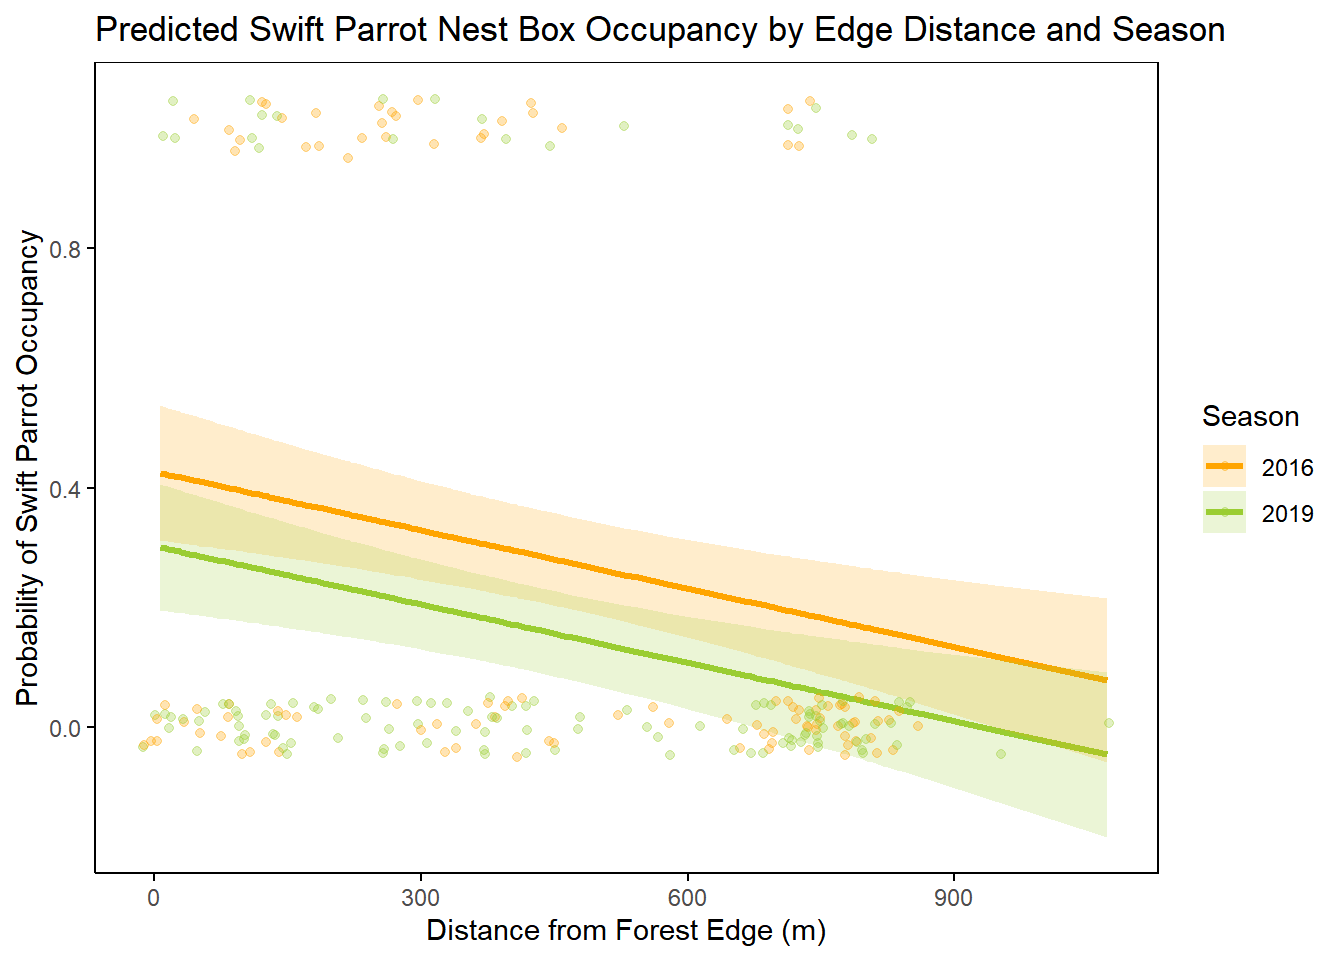
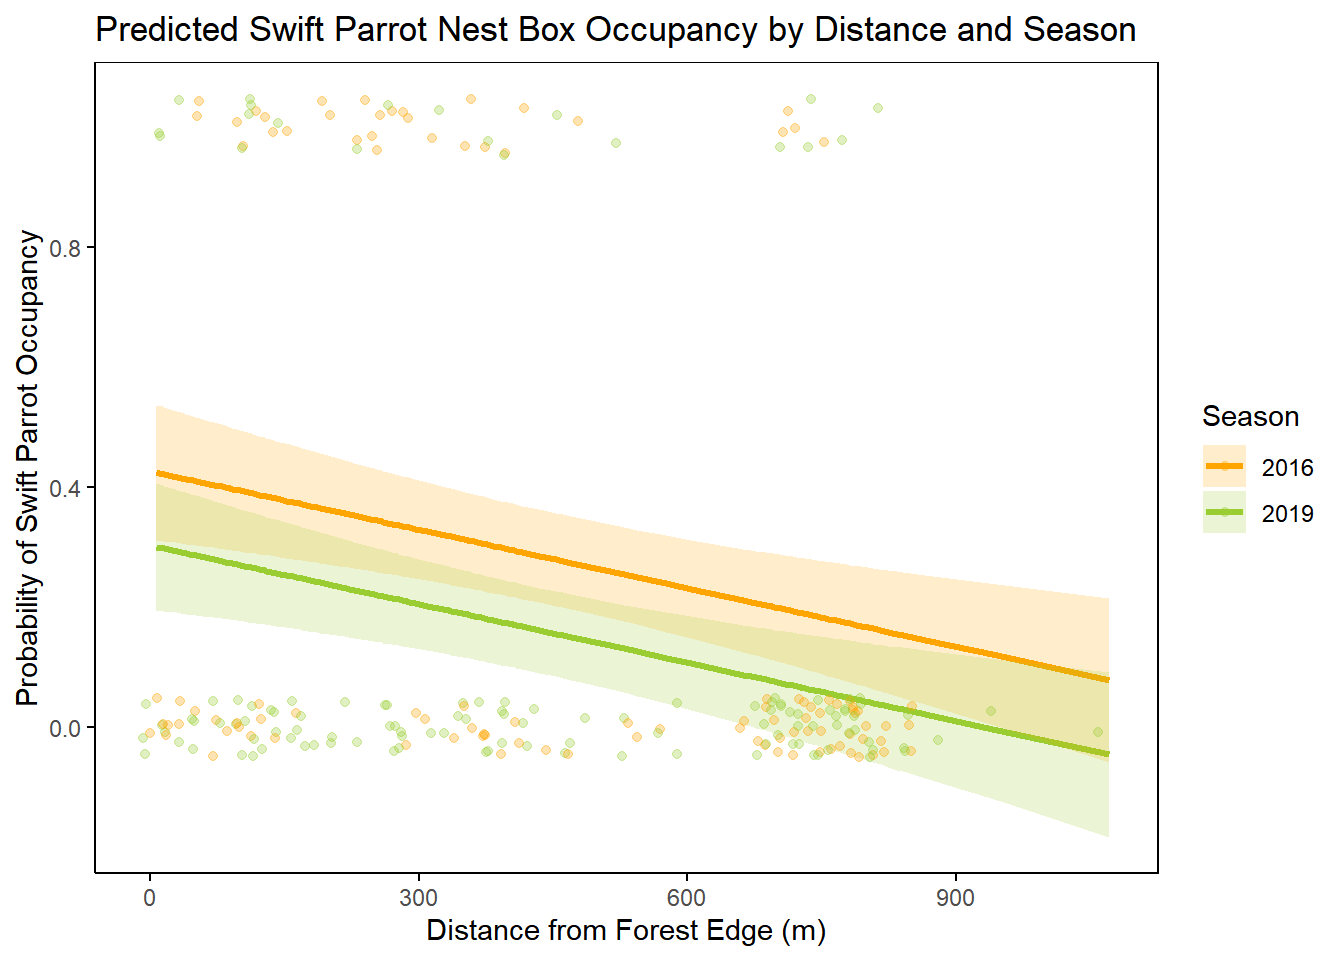
calculate model predictions

diff --git a/code/ENVS-193DS-FInal.html b/code/ENVS-193DS-FInal.html
@@ -160,15 +160,14 @@ pre > code.sourceCode > span > a:first-child::before { text-decoration: underlin
 <span id="cb1-2"><a href="#cb1-2" aria-hidden="true" tabindex="-1"></a><span class="co">#loading in libraries</span></span>
 <span id="cb1-3"><a href="#cb1-3" aria-hidden="true" tabindex="-1"></a><span class="fu">library</span>(tidyverse) <span class="co">#general use</span></span>
 <span id="cb1-4"><a href="#cb1-4" aria-hidden="true" tabindex="-1"></a><span class="fu">library</span>(here) <span class="co">#organization</span></span>
-<span id="cb1-5"><a href="#cb1-5" aria-hidden="true" tabindex="-1"></a><span class="fu">library</span>(gt)</span>
-<span id="cb1-6"><a href="#cb1-6" aria-hidden="true" tabindex="-1"></a><span class="fu">library</span> (ggeffects)</span>
-<span id="cb1-7"><a href="#cb1-7" aria-hidden="true" tabindex="-1"></a><span class="fu">library</span>(janitor) <span class="co">#cleaning data frames</span></span>
-<span id="cb1-8"><a href="#cb1-8" aria-hidden="true" tabindex="-1"></a><span class="fu">library</span>(readxl) <span class="co">#reading excel sheets</span></span>
-<span id="cb1-9"><a href="#cb1-9" aria-hidden="true" tabindex="-1"></a><span class="fu">library</span>(dplyr) <span class="co">#</span></span>
-<span id="cb1-10"><a href="#cb1-10" aria-hidden="true" tabindex="-1"></a><span class="fu">library</span>(ggplot2) <span class="co">#creating figures</span></span>
-<span id="cb1-11"><a href="#cb1-11" aria-hidden="true" tabindex="-1"></a><span class="fu">library</span>(magick) </span>
-<span id="cb1-12"><a href="#cb1-12" aria-hidden="true" tabindex="-1"></a><span class="fu">library</span>(DHARMa)</span>
-<span id="cb1-13"><a href="#cb1-13" aria-hidden="true" tabindex="-1"></a><span class="fu">library</span>(MuMIn) <span class="co">#model selection</span></span></code><button title="Copy to Clipboard" class="code-copy-button"><i class="bi"></i></button></pre></div>
+<span id="cb1-5"><a href="#cb1-5" aria-hidden="true" tabindex="-1"></a><span class="fu">library</span>(ggeffects) <span class="co">#model predictions</span></span>
+<span id="cb1-6"><a href="#cb1-6" aria-hidden="true" tabindex="-1"></a><span class="fu">library</span>(janitor) <span class="co">#cleaning data frames</span></span>
+<span id="cb1-7"><a href="#cb1-7" aria-hidden="true" tabindex="-1"></a><span class="fu">library</span>(readxl) <span class="co">#reading excel sheets</span></span>
+<span id="cb1-8"><a href="#cb1-8" aria-hidden="true" tabindex="-1"></a><span class="fu">library</span>(dplyr) <span class="co">#data manipulation</span></span>
+<span id="cb1-9"><a href="#cb1-9" aria-hidden="true" tabindex="-1"></a><span class="fu">library</span>(ggplot2) <span class="co">#creating figures</span></span>
+<span id="cb1-10"><a href="#cb1-10" aria-hidden="true" tabindex="-1"></a><span class="fu">library</span>(magick) <span class="co">#image processing</span></span>
+<span id="cb1-11"><a href="#cb1-11" aria-hidden="true" tabindex="-1"></a><span class="fu">library</span>(DHARMa) <span class="co">#regression modeling</span></span>
+<span id="cb1-12"><a href="#cb1-12" aria-hidden="true" tabindex="-1"></a><span class="fu">library</span>(MuMIn) <span class="co">#model selection</span></span></code><button title="Copy to Clipboard" class="code-copy-button"><i class="bi"></i></button></pre></div>
 </div>
 <div class="cell">
 <div class="sourceCode cell-code" id="cb2"><pre class="sourceCode r code-with-copy"><code class="sourceCode r"><span id="cb2-1"><a href="#cb2-1" aria-hidden="true" tabindex="-1"></a><span class="co">#read in SB LTER data for this assignment (problem 2)</span></span>
@@ -187,11 +186,11 @@ pre > code.sourceCode > span > a:first-child::before { text-decoration: underlin
 </section>
 <section id="b.-more-information-needed" class="level3">
 <h3 class="anchored" data-anchor-id="b.-more-information-needed">b. More information needed</h3>
-<p>What should also be included are (1) Effect size/dist for both analyses. For example, in part 1, was correlation positive? negative? how strong was it? A p-value by itself did not indicate the strength or nature of the relationship. (2) Post-hoc comparison for part 2 is needed. Since there are multiple nitrogen sources, a significant ANOVA should be followed by pairwise comparisons <em>tukey hsd</em> to determine difference in sources. This would give better context for interpretation of which alnd uses are contributing the most to nitrogen.</p>
+<p>What should also be included are (1) Effect size/dist for both analyses. For example, in part 1, was correlation positive? negative? how strong was it? A p-value by itself did not indicate the strength or nature of the relationship. (2) Post-hoc comparison for part 2 is needed. Since there are multiple nitrogen sources, a significant ANOVA should be followed by pairwise comparisons (Tukey’s HSD) to determine difference in sources. This would give better context for interpretation of which alnd uses are contributing the most to nitrogen.</p>
 </section>
 <section id="c.-suggestions-for-rewriting" class="level3">
 <h3 class="anchored" data-anchor-id="c.-suggestions-for-rewriting">c.&nbsp;Suggestions for rewriting</h3>
-<p><em>add more here later</em> Sites father from the river headwaters were associated with higher total annual nitrogen loads. We rejected the null hypotheses that there is no correlation between distance from headwater (km) and annual total nitrogen load (kg year-1). Using Pearson’s correlation, r = correlation coefficient, p = 0.03, a = 0.05</p>
+<p>Sites father from the river headwaters were associated with higher total annual nitrogen loads. We rejected the null hypotheses that there is no correlation between distance from headwater (km) and annual total nitrogen load (kg year-1). Using Pearson’s correlation, r = correlation coefficient, p = 0.03, a = 0.05</p>
 <p>Nitrogen load varied significantly across different source types, indicating there is a key driver of elevated nitrogen levels to the system. We reject the null hypotheses that there is no difference in average nitrogen load between sources (urban land, atmospheric deposition, fertilizer, wastewater treatment, and grasslands) Using one way ANOVA, f=test statistic, df = degrees of freedom, p = 0.02, a = 0.05).A follow p post-hoc Tukey’s HSD test determined that ___ source (mean difference = average kg/year, p = p value) had significantly higher nitrogen loads than ___source (mean difference = average kg/year, p = p-value) no significant differences were found between other sources.</p>
 </section>
 </section>
@@ -215,17 +214,17 @@ pre > code.sourceCode > span > a:first-child::before { text-decoration: underlin
 <span id="cb3-12"><a href="#cb3-12" aria-hidden="true" tabindex="-1"></a><span class="co">#drop duplicates</span></span>
 <span id="cb3-13"><a href="#cb3-13" aria-hidden="true" tabindex="-1"></a></span>
 <span id="cb3-14"><a href="#cb3-14" aria-hidden="true" tabindex="-1"></a>sst_clean<span class="sc">$</span>year <span class="ot">&lt;-</span> <span class="fu">factor</span>(sst_clean<span class="sc">$</span>year, <span class="at">levels =</span> <span class="fu">c</span>(<span class="st">"2018"</span>, <span class="st">"2019"</span>, <span class="st">"2020"</span>, <span class="st">"2021"</span>, <span class="st">"2022"</span>, <span class="st">"2023"</span>))</span>
-<span id="cb3-15"><a href="#cb3-15" aria-hidden="true" tabindex="-1"></a><span class="co">#display 5 rows from sst_clean</span></span>
+<span id="cb3-15"><a href="#cb3-15" aria-hidden="true" tabindex="-1"></a><span class="co">#display 5 rows from sst_clean, in levels ("2018", "2019", "2020", "2021", "2022", and "2023"</span></span>
 <span id="cb3-16"><a href="#cb3-16" aria-hidden="true" tabindex="-1"></a><span class="fu">slice_sample</span>(sst_clean, <span class="at">n =</span> <span class="dv">5</span>)</span></code><button title="Copy to Clipboard" class="code-copy-button"><i class="bi"></i></button></pre></div>
 <div class="cell-output cell-output-stdout">
 <pre><code># A tibble: 5 × 3
   year  month mean_monthly_sst
   &lt;fct&gt; &lt;ord&gt;            &lt;dbl&gt;
-1 2023  May               14.3
-2 2023  Oct               17.4
-3 2020  Jul               17  
-4 2021  May               14.4
-5 2023  Nov               16.8</code></pre>
+1 2019  Nov               16.8
+2 2019  Aug               17  
+3 2022  Feb               14.1
+4 2020  May               14.6
+5 2018  Nov               17.9</code></pre>
 </div>
 <div class="sourceCode cell-code" id="cb5"><pre class="sourceCode r code-with-copy"><code class="sourceCode r"><span id="cb5-1"><a href="#cb5-1" aria-hidden="true" tabindex="-1"></a><span class="co">#structure from sst_clean</span></span>
 <span id="cb5-2"><a href="#cb5-2" aria-hidden="true" tabindex="-1"></a><span class="fu">str</span>(sst_clean)</span></code><button title="Copy to Clipboard" class="code-copy-button"><i class="bi"></i></button></pre></div>
@@ -242,28 +241,31 @@ pre > code.sourceCode > span > a:first-child::before { text-decoration: underlin
 <p><em>how to add20 tick to yaxis</em></p>
 <div class="cell">
 <div class="sourceCode cell-code" id="cb7"><pre class="sourceCode r code-with-copy"><code class="sourceCode r"><span id="cb7-1"><a href="#cb7-1" aria-hidden="true" tabindex="-1"></a><span class="fu">ggplot</span>(<span class="at">data =</span> sst_clean, <span class="co">#making visualization using cleaned sst data </span></span>
-<span id="cb7-2"><a href="#cb7-2" aria-hidden="true" tabindex="-1"></a>        <span class="fu">aes</span>(<span class="at">x =</span> month, <span class="at">y =</span> mean_monthly_sst, <span class="at">color =</span> year, <span class="at">group =</span> year)) <span class="sc">+</span></span>
-<span id="cb7-3"><a href="#cb7-3" aria-hidden="true" tabindex="-1"></a>  <span class="fu">scale_color_manual</span>(</span>
-<span id="cb7-4"><a href="#cb7-4" aria-hidden="true" tabindex="-1"></a>    <span class="at">values =</span> <span class="fu">colorRampPalette</span>(<span class="fu">c</span>(<span class="st">"lightblue"</span>,<span class="st">"darkblue"</span>))(<span class="dv">6</span>)</span>
-<span id="cb7-5"><a href="#cb7-5" aria-hidden="true" tabindex="-1"></a>  ) <span class="sc">+</span></span>
-<span id="cb7-6"><a href="#cb7-6" aria-hidden="true" tabindex="-1"></a>  <span class="fu">geom_line</span>(</span>
-<span id="cb7-7"><a href="#cb7-7" aria-hidden="true" tabindex="-1"></a>    <span class="fu">aes</span>(<span class="at">group =</span> year)) <span class="sc">+</span></span>
-<span id="cb7-8"><a href="#cb7-8" aria-hidden="true" tabindex="-1"></a>  <span class="fu">geom_point</span>(</span>
-<span id="cb7-9"><a href="#cb7-9" aria-hidden="true" tabindex="-1"></a>    <span class="fu">aes</span>(), </span>
-<span id="cb7-10"><a href="#cb7-10" aria-hidden="true" tabindex="-1"></a>  <span class="co">#each individual point is sorted by year </span></span>
-<span id="cb7-11"><a href="#cb7-11" aria-hidden="true" tabindex="-1"></a>     <span class="at">size =</span> <span class="dv">2</span>) <span class="sc">+</span></span>
-<span id="cb7-12"><a href="#cb7-12" aria-hidden="true" tabindex="-1"></a>  <span class="co">#labeling the title and axis of the plot</span></span>
-<span id="cb7-13"><a href="#cb7-13" aria-hidden="true" tabindex="-1"></a><span class="fu">labs</span>(<span class="at">title =</span> <span class="st">"Mean monthly surface temperature (C°) by year, 2018 to 2023"</span>,</span>
-<span id="cb7-14"><a href="#cb7-14" aria-hidden="true" tabindex="-1"></a>       <span class="at">x =</span> <span class="st">"Month"</span>,</span>
-<span id="cb7-15"><a href="#cb7-15" aria-hidden="true" tabindex="-1"></a>       <span class="at">y =</span> <span class="st">"Mean monthly sea surface temperature(C°)"</span>) <span class="sc">+</span></span>
-<span id="cb7-16"><a href="#cb7-16" aria-hidden="true" tabindex="-1"></a>  <span class="fu">theme_minimal</span>() <span class="sc">+</span></span>
-<span id="cb7-17"><a href="#cb7-17" aria-hidden="true" tabindex="-1"></a>  <span class="fu">theme</span>(</span>
-<span id="cb7-18"><a href="#cb7-18" aria-hidden="true" tabindex="-1"></a>    <span class="at">panel.grid =</span> <span class="fu">element_blank</span>(),</span>
-<span id="cb7-19"><a href="#cb7-19" aria-hidden="true" tabindex="-1"></a>    <span class="at">panel.border =</span> <span class="fu">element_rect</span>(<span class="at">color =</span> <span class="st">"black"</span>, <span class="at">fill =</span> <span class="cn">NA</span>), <span class="co">#adding a panel border</span></span>
-<span id="cb7-20"><a href="#cb7-20" aria-hidden="true" tabindex="-1"></a>    <span class="at">axis.line =</span> <span class="fu">element_line</span>(<span class="at">color =</span> <span class="st">"black"</span>),</span>
-<span id="cb7-21"><a href="#cb7-21" aria-hidden="true" tabindex="-1"></a>    <span class="at">axis.ticks =</span> <span class="fu">element_line</span>(<span class="at">color =</span> <span class="st">"black"</span>), <span class="co">#adding axis ticks</span></span>
-<span id="cb7-22"><a href="#cb7-22" aria-hidden="true" tabindex="-1"></a>    <span class="at">legend.position =</span> <span class="fu">c</span>(<span class="fl">0.2</span>, <span class="fl">0.7</span>),</span>
-<span id="cb7-23"><a href="#cb7-23" aria-hidden="true" tabindex="-1"></a>  )  <span class="co">#remove background gridlines and legend box</span></span></code><button title="Copy to Clipboard" class="code-copy-button"><i class="bi"></i></button></pre></div>
+<span id="cb7-2"><a href="#cb7-2" aria-hidden="true" tabindex="-1"></a>        <span class="fu">aes</span>(<span class="at">x =</span> month, <span class="at">y =</span> mean_monthly_sst, <span class="at">color =</span> year, <span class="at">group =</span> year)) <span class="sc">+</span> </span>
+<span id="cb7-3"><a href="#cb7-3" aria-hidden="true" tabindex="-1"></a>  <span class="co">#setting the axis, comparing month (x axis) and mean monthly sea surface temperature (y axis)</span></span>
+<span id="cb7-4"><a href="#cb7-4" aria-hidden="true" tabindex="-1"></a>  <span class="fu">scale_color_manual</span>(</span>
+<span id="cb7-5"><a href="#cb7-5" aria-hidden="true" tabindex="-1"></a>    <span class="at">values =</span> <span class="fu">colorRampPalette</span>(<span class="fu">c</span>(<span class="st">"lightblue"</span>,<span class="st">"darkblue"</span>))(<span class="dv">6</span>)</span>
+<span id="cb7-6"><a href="#cb7-6" aria-hidden="true" tabindex="-1"></a>  ) <span class="sc">+</span> </span>
+<span id="cb7-7"><a href="#cb7-7" aria-hidden="true" tabindex="-1"></a>  <span class="co">#color gradient representing years</span></span>
+<span id="cb7-8"><a href="#cb7-8" aria-hidden="true" tabindex="-1"></a>  <span class="fu">geom_line</span>(</span>
+<span id="cb7-9"><a href="#cb7-9" aria-hidden="true" tabindex="-1"></a>    <span class="fu">aes</span>(<span class="at">group =</span> year)) <span class="sc">+</span> </span>
+<span id="cb7-10"><a href="#cb7-10" aria-hidden="true" tabindex="-1"></a>  <span class="co">#group by</span></span>
+<span id="cb7-11"><a href="#cb7-11" aria-hidden="true" tabindex="-1"></a>  <span class="fu">geom_point</span>(</span>
+<span id="cb7-12"><a href="#cb7-12" aria-hidden="true" tabindex="-1"></a>    <span class="fu">aes</span>(), </span>
+<span id="cb7-13"><a href="#cb7-13" aria-hidden="true" tabindex="-1"></a>  <span class="co">#each individual point is sorted by year </span></span>
+<span id="cb7-14"><a href="#cb7-14" aria-hidden="true" tabindex="-1"></a>     <span class="at">size =</span> <span class="dv">2</span>) <span class="sc">+</span></span>
+<span id="cb7-15"><a href="#cb7-15" aria-hidden="true" tabindex="-1"></a>  <span class="co">#labeling the title and axis of the plot</span></span>
+<span id="cb7-16"><a href="#cb7-16" aria-hidden="true" tabindex="-1"></a><span class="fu">labs</span>(<span class="at">title =</span> <span class="st">"Mean monthly surface temperature (C°) by year, 2018 to 2023"</span>,</span>
+<span id="cb7-17"><a href="#cb7-17" aria-hidden="true" tabindex="-1"></a>       <span class="at">x =</span> <span class="st">"Month"</span>,</span>
+<span id="cb7-18"><a href="#cb7-18" aria-hidden="true" tabindex="-1"></a>       <span class="at">y =</span> <span class="st">"Mean monthly sea surface temperature(C°)"</span>) <span class="sc">+</span></span>
+<span id="cb7-19"><a href="#cb7-19" aria-hidden="true" tabindex="-1"></a>  <span class="fu">theme_minimal</span>() <span class="sc">+</span></span>
+<span id="cb7-20"><a href="#cb7-20" aria-hidden="true" tabindex="-1"></a>  <span class="fu">theme</span>(</span>
+<span id="cb7-21"><a href="#cb7-21" aria-hidden="true" tabindex="-1"></a>    <span class="at">panel.grid =</span> <span class="fu">element_blank</span>(),</span>
+<span id="cb7-22"><a href="#cb7-22" aria-hidden="true" tabindex="-1"></a>    <span class="at">panel.border =</span> <span class="fu">element_rect</span>(<span class="at">color =</span> <span class="st">"black"</span>, <span class="at">fill =</span> <span class="cn">NA</span>), <span class="co">#adding a panel border</span></span>
+<span id="cb7-23"><a href="#cb7-23" aria-hidden="true" tabindex="-1"></a>    <span class="at">axis.line =</span> <span class="fu">element_line</span>(<span class="at">color =</span> <span class="st">"black"</span>),</span>
+<span id="cb7-24"><a href="#cb7-24" aria-hidden="true" tabindex="-1"></a>    <span class="at">axis.ticks =</span> <span class="fu">element_line</span>(<span class="at">color =</span> <span class="st">"black"</span>), <span class="co">#adding axis ticks</span></span>
+<span id="cb7-25"><a href="#cb7-25" aria-hidden="true" tabindex="-1"></a>    <span class="at">legend.position =</span> <span class="fu">c</span>(<span class="fl">0.2</span>, <span class="fl">0.7</span>),</span>
+<span id="cb7-26"><a href="#cb7-26" aria-hidden="true" tabindex="-1"></a>  )  <span class="co">#remove background gridlines and legend box</span></span></code><button title="Copy to Clipboard" class="code-copy-button"><i class="bi"></i></button></pre></div>
 <div class="cell-output-display">
 <div>
 <figure class="figure">
@@ -442,7 +444,7 @@ model10  2 245.0324</code></pre>
 <span id="cb15-11"><a href="#cb15-11" aria-hidden="true" tabindex="-1"></a>  <span class="fu">geom_ribbon</span>(<span class="fu">aes</span>(<span class="at">ymin =</span> conf.low, <span class="at">ymax =</span> conf.high), <span class="at">alpha =</span> <span class="fl">0.2</span>, <span class="at">color =</span> <span class="cn">NA</span>) <span class="sc">+</span></span>
 <span id="cb15-12"><a href="#cb15-12" aria-hidden="true" tabindex="-1"></a>  <span class="fu">geom_jitter</span>(<span class="at">data =</span> sp_data_clean, <span class="fu">aes</span>(<span class="at">x =</span> edge_distance, <span class="at">y =</span> sp, <span class="at">color =</span> season), </span>
 <span id="cb15-13"><a href="#cb15-13" aria-hidden="true" tabindex="-1"></a>              <span class="at">inherit.aes =</span> <span class="cn">FALSE</span>, <span class="at">width =</span> <span class="dv">20</span>, <span class="at">height =</span> <span class="fl">0.05</span>, <span class="at">alpha =</span> <span class="fl">0.3</span>) <span class="sc">+</span></span>
-<span id="cb15-14"><a href="#cb15-14" aria-hidden="true" tabindex="-1"></a>  <span class="fu">labs</span>(<span class="at">title =</span> <span class="st">"Predicted Swift Parrot Nest Box Occupancy by Edge Distance and Season"</span>,</span>
+<span id="cb15-14"><a href="#cb15-14" aria-hidden="true" tabindex="-1"></a>  <span class="fu">labs</span>(<span class="at">title =</span> <span class="st">"Predicted Swift Parrot Nest Box Occupancy by Distance and Season"</span>,</span>
 <span id="cb15-15"><a href="#cb15-15" aria-hidden="true" tabindex="-1"></a>       <span class="at">x =</span> <span class="st">"Distance from Forest Edge (m)"</span>,</span>
 <span id="cb15-16"><a href="#cb15-16" aria-hidden="true" tabindex="-1"></a>       <span class="at">y =</span> <span class="st">"Probability of Swift Parrot Occupancy"</span>,</span>
 <span id="cb15-17"><a href="#cb15-17" aria-hidden="true" tabindex="-1"></a>       <span class="at">color =</span> <span class="st">"Season"</span>,</span>
